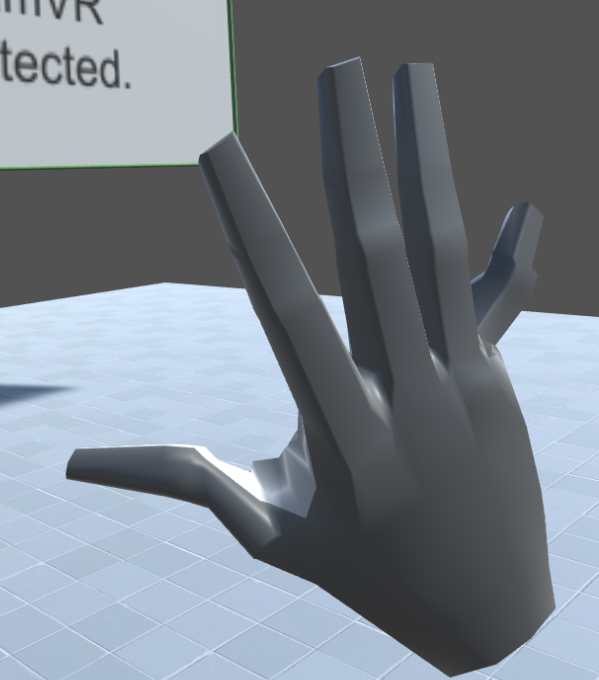
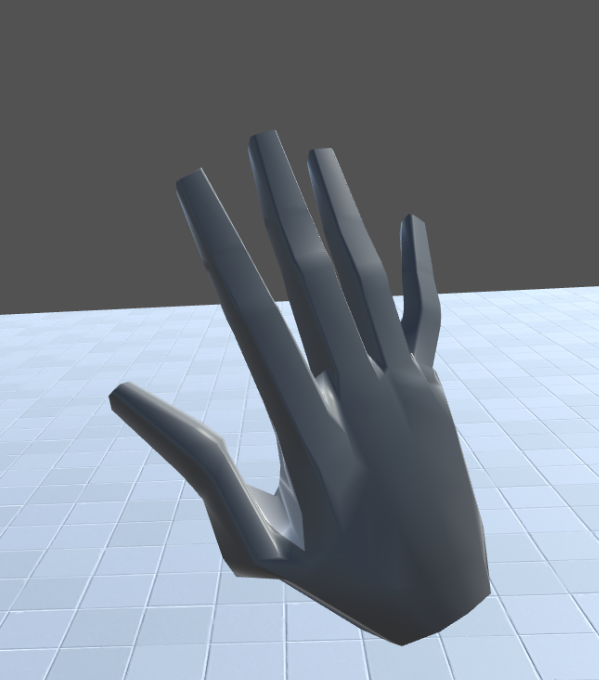
fixing off by one error in the pinky retargeting

diff --git a/Assets/HandshakeVR/Scripts/PlatformIndependence/Oculus/OculusRemapper.cs b/Assets/HandshakeVR/Scripts/PlatformIndependence/Oculus/OculusRemapper.cs
@@ -224,7 +224,7 @@ namespace HandshakeVR
 				OVRBone pinkyMetacarpalBone = skeleton.Bones[(int)OVRSkeleton.BoneId.Hand_Pinky0];
 				OVRBone pinkyProximalBone = skeleton.Bones[(int)OVRSkeleton.BoneId.Hand_Pinky1];
 				OVRBone pinkyMedialBone = skeleton.Bones[(int)OVRSkeleton.BoneId.Hand_Pinky2];
-				OVRBone pinkyDistalBone = skeleton.Bones[(int)OVRSkeleton.BoneId.Hand_Pinky2];
+				OVRBone pinkyDistalBone = skeleton.Bones[(int)OVRSkeleton.BoneId.Hand_Pinky3];
 				Transform pinkyMetacarpal = controllerHand.PinkyMetacarpal;
 				Transform pinkyPromial = pinkyMetacarpal.GetChild(0);
 				Transform pinkyMedial = pinkyPromial.GetChild(0);
